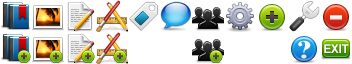
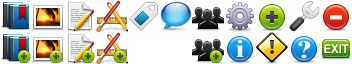
Restyled flash messages.

Changed region(s): [[0.625, 0.5, 0.8438, 1.0]]

diff --git a/lib/cortex_reaver/public/css/flash.css b/lib/cortex_reaver/public/css/flash.css
@@ -1,17 +1,49 @@
 .flash {
-  width: 700px;
-  padding: 0.5em;
-  margin: 10px;
+  padding: 0;
+  font-size: 14px;
+  -webkit-border-radius: 4px;
+  -moz-border-radius: 4px;
+  margin-bottom: 10px;
 }
 
-#flash_notice {
-  border: 1px solid #00b;
-  color: #00b;
+.flash .icon {
+  float: left;
+  background-image: url('/images/admin/icons.png');
+  background-repeat: no-repeat;
+  height: 32px;
+  width: 32px;
+  margin: 6px;
+}
+
+.flash .body {
+  margin: 6px;
+  float: left;
+}
+
+.flash.notice {
+  color: #003;
   background: #e6e6ff;
+  -webkit-box-shadow: 0 1px 2px #88a;
+}
+body.photographs .flash.notice {
+  background: #3C3C54;
+  -webkit-box-shadow: none;
+  color: #fff;
+}
+.flash.notice .icon {
+  background-position: -224px -32px;
 }
 
-#flash_error {
-  border: 1px solid #b00;
-  color: #b00;
+.flash.error {
+  color: #300;
   background: #ffe6e6;
+  -webkit-box-shadow: 0 1px 2px #a88;
+}
+body.photographs .flash.error {
+  background: #541C1C;
+  color: #fff;
+  -webkit-box-shadow: none;
+}
+.flash.error .icon {
+  background-position: -256px -32px;
 }

diff --git a/lib/cortex_reaver/helper/common.rb b/lib/cortex_reaver/helper/common.rb
@@ -1,0 +1,17 @@
+module Ramaze
+  module Helper
+    module Common
+      def flashbox
+        f = ''
+        flash.each do |k, v|
+          f << '<div class="flash ' + k.to_s + '">'
+          f << '<div class="icon"></div>'
+          f << '<div class="body">' + v.to_s + '</div>'
+          f << '<div class="clear"></div>'
+          f << '</div>'
+        end
+        f
+      end
+    end
+  end
+end

diff --git a/lib/cortex_reaver/controller/controller.rb b/lib/cortex_reaver/controller/controller.rb
@@ -4,7 +4,7 @@ module CortexReaver
     # trait :app => :cortex_reaver
     engine :Erubis
     layout :text
-    helper :form, :auth, :navigation, :workflow, :error, :sidebar, :aspect
+    helper :form, :auth, :navigation, :workflow, :error, :sidebar, :aspect, :common
   end
 end
 
